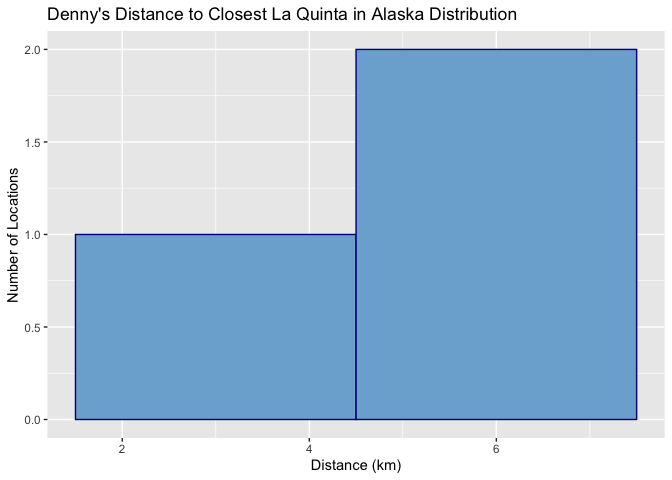
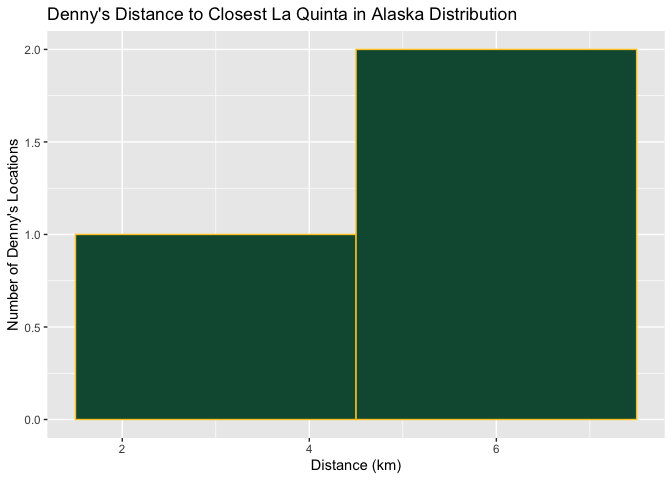
Exercise 10 complete/color codes

diff --git a/lab-05.md b/lab-05.md
@@ -123,10 +123,10 @@ dn_lq_ak_mindist
 
 ``` r
 dn_lq_ak_mindist %>% ggplot(aes(x = closest)) +
-  geom_histogram(fill = "#7BAFD4", color = "darkblue", binwidth =3) +
+  geom_histogram(fill = "#115740", color = "#ffc72c", binwidth = 3) +
   labs(title = "Denny's Distance to Closest La Quinta in Alaska Distribution",
        x = "Distance (km)",
-       y = "Number of Locations")
+       y = "Number of Denny's Locations")
 ```
 
 ![](lab-05_files/figure-gfm/dn_lq_ak_mindist-histogram-1.png)<!-- -->
@@ -139,8 +139,48 @@ describe(dn_lq_ak_mindist$closest)
     ## X1    1 3 4.41 2.1    5.2    4.41 1.19 2.04   6  3.96 -0.32    -2.33 1.21
 
 There is a mean distance of 4.41km from Denny’s to the closest La Quinta
-location and a variance of 4.41km between the 3 Denny’s locations.
-However, with just three data points this is not a lot of information to
-go off of.
+location and a variance of 4.41km. However, with just three data points
+this is not a lot of information to go off of.
 
-### Exercise 9
+### Exercise 10
+
+``` r
+#Create Texas data
+lq_tx <- lq %>%
+  filter(state == "TX")
+
+dn_tx <- dn %>%
+  filter(state == "TX")
+
+#join datasets
+dn_lq_tx <- full_join(dn_tx, lq_tx, by = "state")
+
+#add distance variable
+dn_lq_tx <- dn_lq_tx %>% mutate(distance = haversine(dn_lq_tx$longitude.x,dn_lq_tx$latitude.x,
+                                                      dn_lq_tx$longitude.y,dn_lq_tx$latitude.y))
+#minimum distance
+dn_lq_tx_mindist <- dn_lq_tx %>%
+  group_by(address.x) %>%
+  summarize(closest = min(distance))
+
+#plots
+dn_lq_tx_mindist %>% ggplot(aes(x = closest)) +
+  geom_histogram(fill = "#BF5700", color = "#333F48", binwidth = 1) +
+  labs(title = "Denny's Distance to Closest La Quinta in Texas Distribution",
+       x = "Distance (km)",
+       y = "Number of Denny's Locations")
+```
+
+![](lab-05_files/figure-gfm/texas-1.png)<!-- -->
+
+``` r
+#describe data
+describe(dn_lq_tx_mindist$closest)
+```
+
+    ##    vars   n mean   sd median trimmed  mad  min   max range skew kurtosis   se
+    ## X1    1 200 5.79 8.83   3.37    3.88 4.06 0.02 60.58 60.57 3.37    13.53 0.62
+
+For Texas, there is a mean distance of 5.79km from Denny’s to the
+closest La Quinta location and a variance of 78km. There is a large
+positive skew in this dataset.
